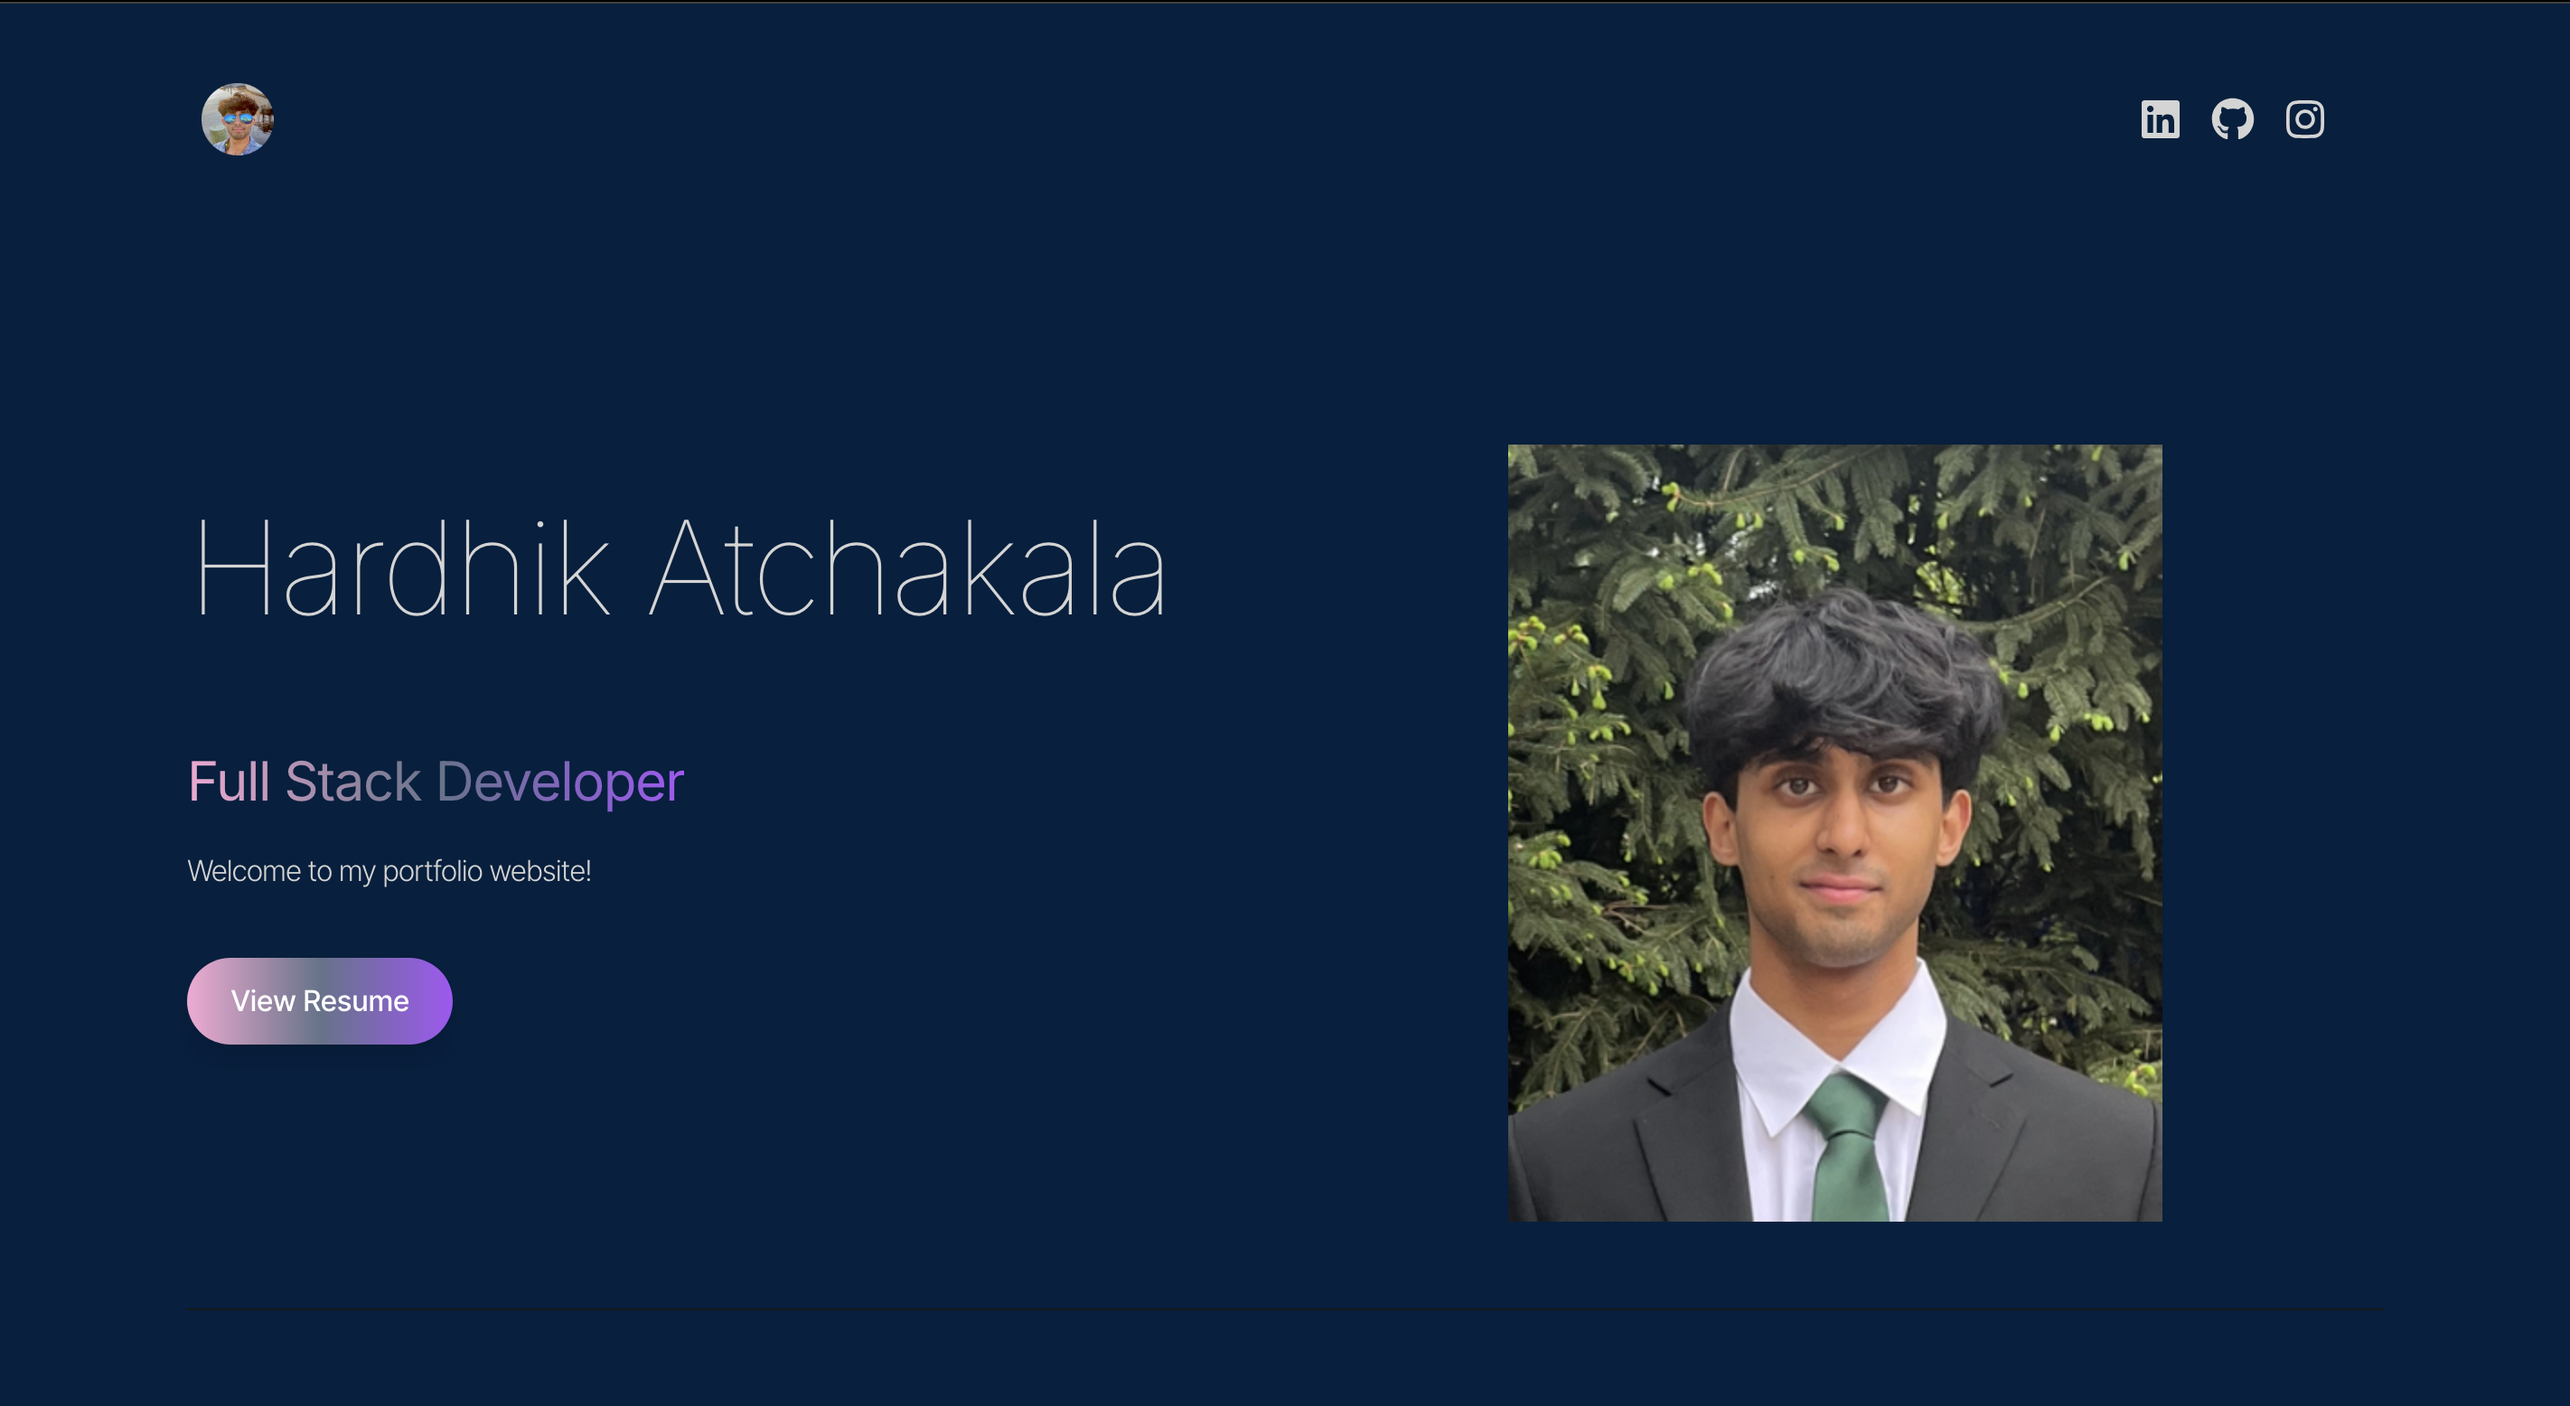
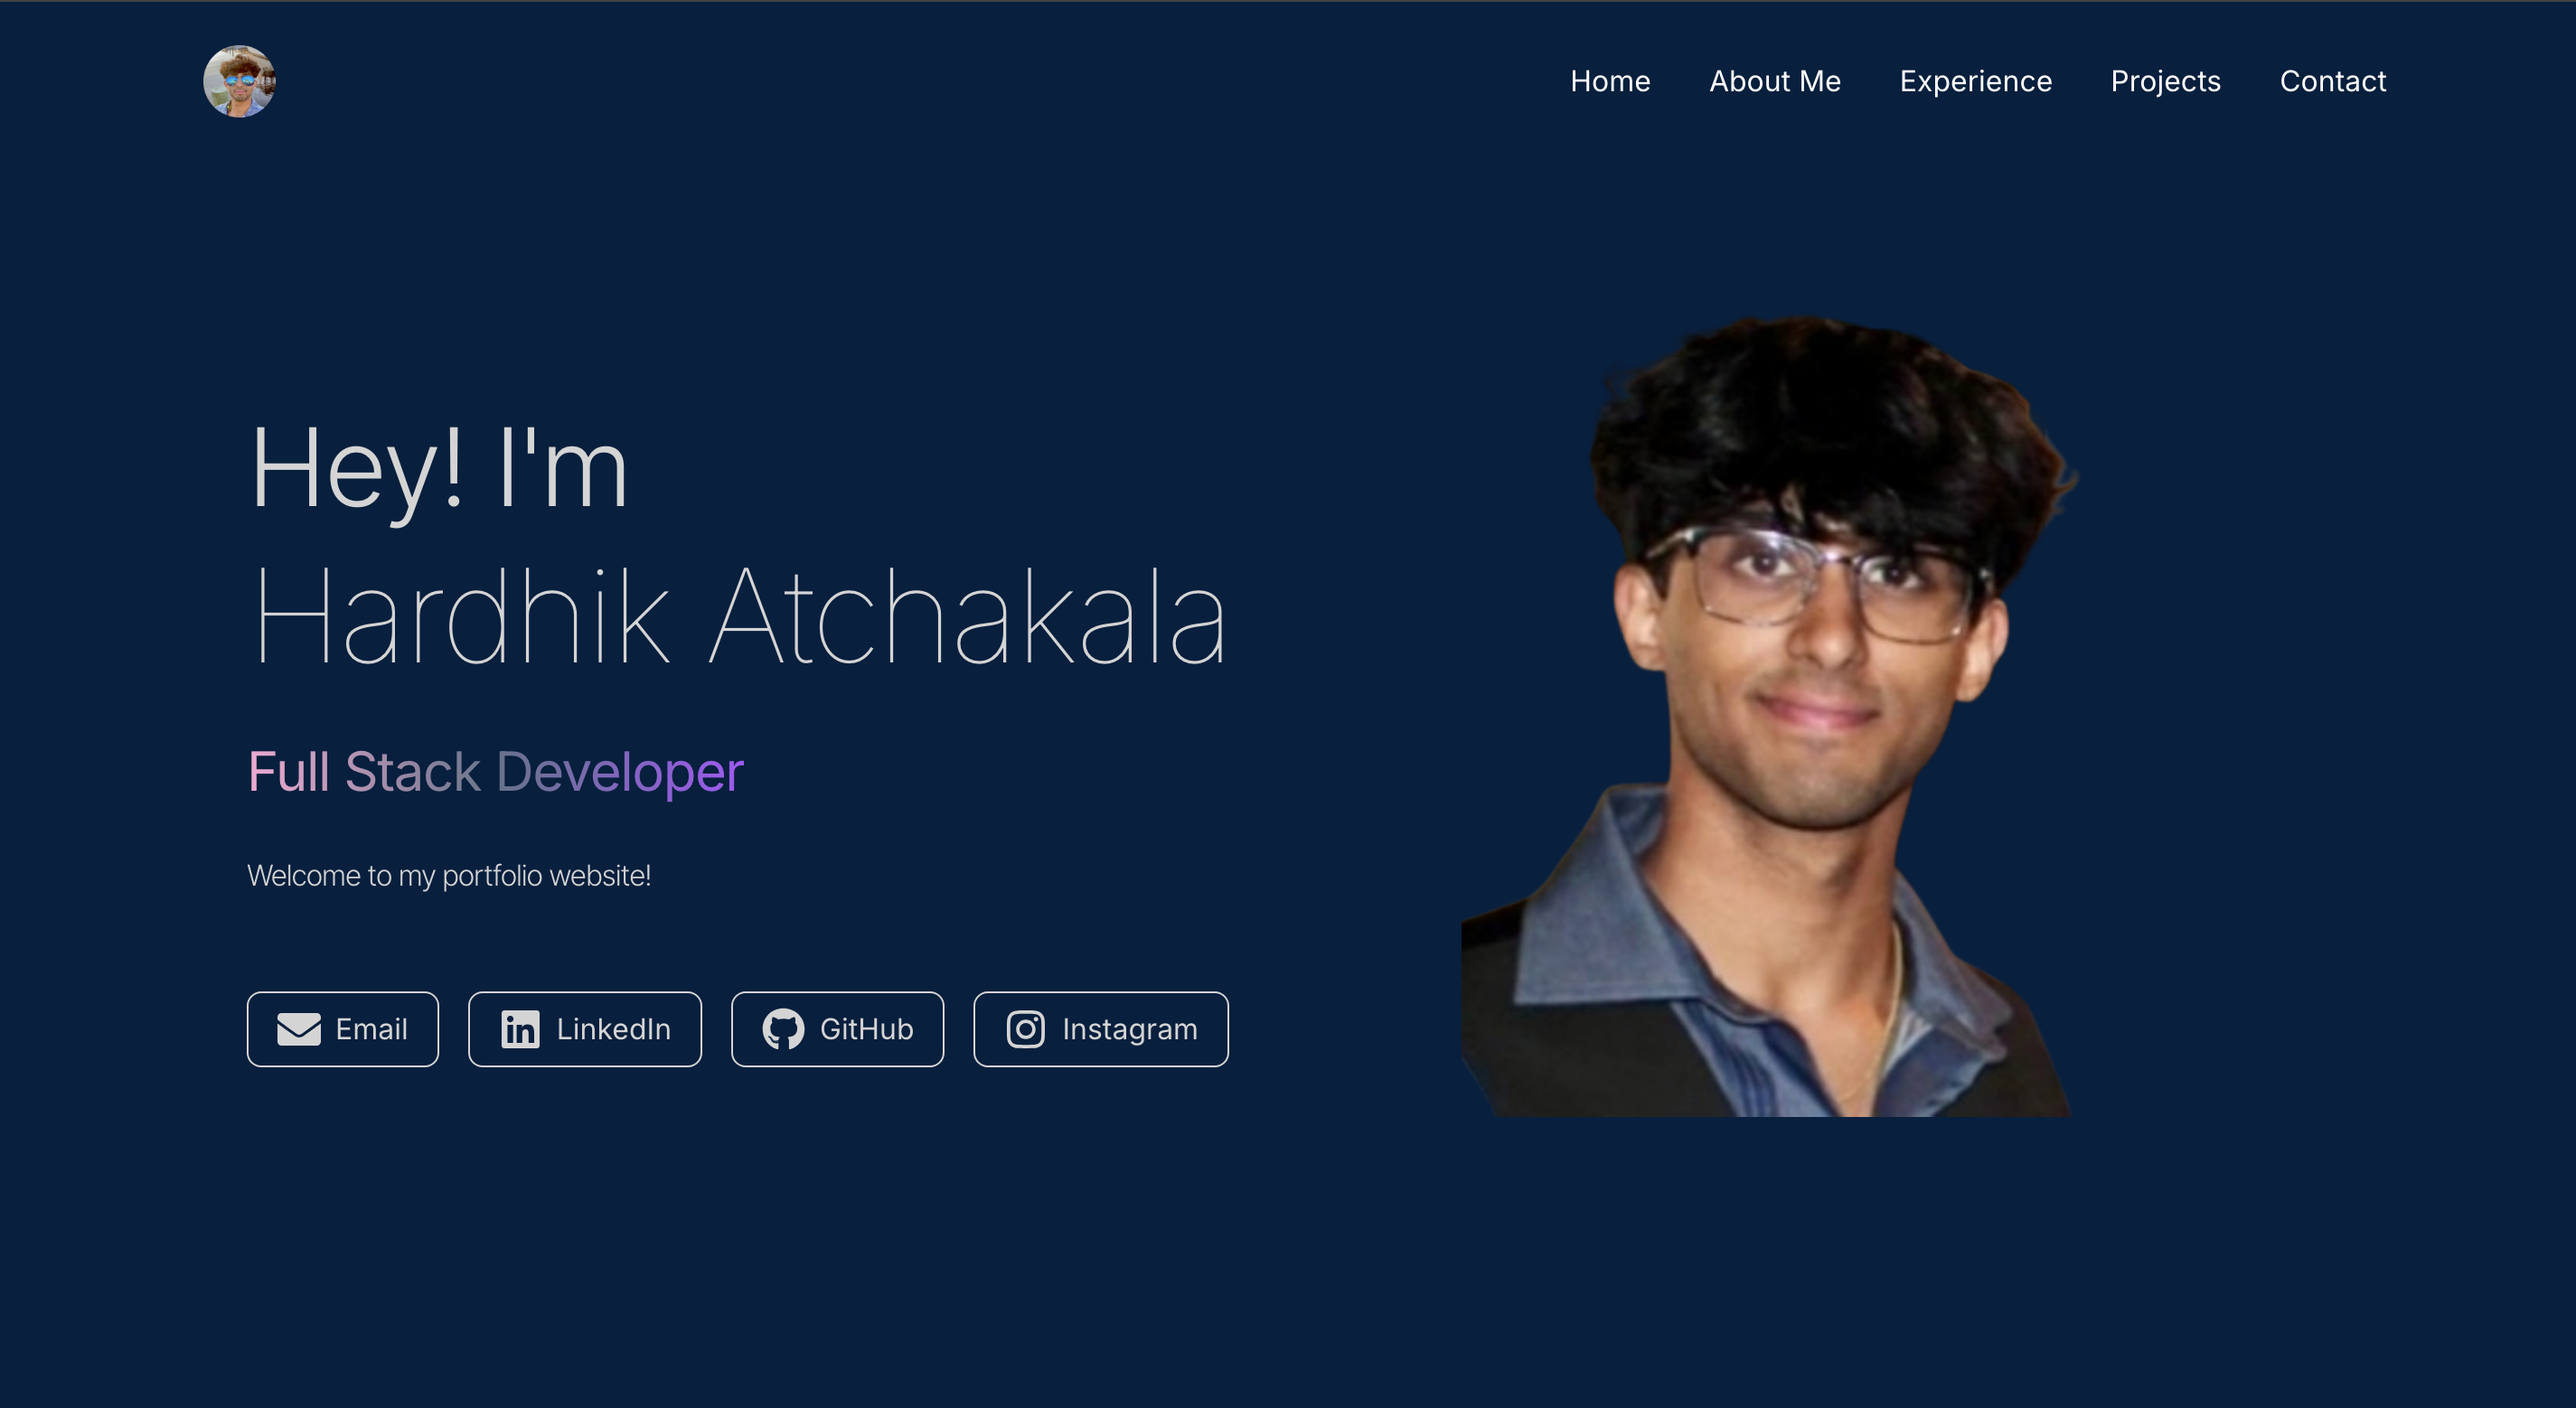
changed main website picture

diff --git a/src/components/Navbar.jsx b/src/components/Navbar.jsx
@@ -23,6 +23,9 @@ const Navbar = () => {
     };
   }, []);
 
+  const navLinkClass =
+    "relative text-base text-white transition-all duration-200 cursor-pointer hover:text-[#2965F1] after:content-[''] after:absolute after:left-0 after:-bottom-1 after:h-[2px] after:w-0 hover:after:w-full after:bg-[#2965F1] after:transition-all after:duration-200";
+
   return (
     <nav className="mb-20 flex items-center justify-between py-6">
       <div className="flex flex-shrink-0 items-center">
@@ -37,49 +40,24 @@ const Navbar = () => {
 
       {/* Desktop Menu */}
       <div className="hidden md:flex space-x-8">
-        <Link
-          to="hero"
-          smooth={true}
-          duration={500}
-          className="text-base text-white transition-colors duration-200 hover:text-[#2965F1]"
-        >
+        <Link to="hero" smooth={true} duration={500} className={navLinkClass}>
           Home
         </Link>
-        <Link
-          to="about"
-          smooth={true}
-          duration={500}
-          className="text-base text-white transition-colors duration-200 hover:text-[#2965F1]"
-        >
+        <Link to="about" smooth={true} duration={500} className={navLinkClass}>
           About Me
         </Link>
-        <Link
-          to="experience"
-          smooth={true}
-          duration={500}
-          className="text-base text-white transition-colors duration-200 hover:text-[#2965F1]"
-        >
+        <Link to="experience" smooth={true} duration={500} className={navLinkClass}>
           Experience
         </Link>
-        <Link
-          to="projects"
-          smooth={true}
-          duration={500}
-          className="text-base text-white transition-colors duration-200 hover:text-[#2965F1]"
-        >
+        <Link to="projects" smooth={true} duration={500} className={navLinkClass}>
           Projects
         </Link>
-        <Link
-          to="contact"
-          smooth={true}
-          duration={500}
-          className="text-base text-white transition-colors duration-200 hover:text-[#2965F1]"
-        >
+        <Link to="contact" smooth={true} duration={500} className={navLinkClass}>
           Contact
         </Link>
       </div>
 
-      {/* Mobile Menu */}
+      {/* Mobile Menu Toggle */}
       <div className="md:hidden">
         <button onClick={toggleMenu} className="text-white">
           {isMenuOpen ? <FaTimes size={30} /> : <FaBars size={30} />}
@@ -92,51 +70,18 @@ const Navbar = () => {
           ref={menuRef}
           className="absolute top-16 right-4 bg-transparent text-white w-40 px-4 py-4 space-y-4 shadow-lg rounded-lg"
         >
-          <Link
-            to="hero"
-            smooth={true}
-            duration={500}
-            className="block text-base transition-colors duration-200 hover:bg-[#2965F1] hover:text-white p-2 rounded text-right"
-            onClick={toggleMenu}
-          >
-            Home
-          </Link>
-          <Link
-            to="about"
-            smooth={true}
-            duration={500}
-            className="block text-base transition-colors duration-200 hover:bg-[#2965F1] hover:text-white p-2 rounded text-right"
-            onClick={toggleMenu}
-          >
-            About Me
-          </Link>
-          <Link
-            to="experience"
-            smooth={true}
-            duration={500}
-            className="block text-base transition-colors duration-200 hover:bg-[#2965F1] hover:text-white p-2 rounded text-right"
-            onClick={toggleMenu}
-          >
-            Experience
-          </Link>
-          <Link
-            to="projects"
-            smooth={true}
-            duration={500}
-            className="block text-base transition-colors duration-200 hover:bg-[#2965F1] hover:text-white p-2 rounded text-right"
-            onClick={toggleMenu}
-          >
-            Projects
-          </Link>
-          <Link
-            to="contact"
-            smooth={true}
-            duration={500}
-            className="block text-base transition-colors duration-200 hover:bg-[#2965F1] hover:text-white p-2 rounded text-right"
-            onClick={toggleMenu}
-          >
-            Contact
-          </Link>
+          {["hero", "about", "experience", "projects", "contact"].map((section) => (
+            <Link
+              key={section}
+              to={section}
+              smooth={true}
+              duration={500}
+              className="block text-base transition-colors duration-200 hover:bg-[#2965F1] hover:text-white p-2 rounded text-right cursor-pointer"
+              onClick={toggleMenu}
+            >
+              {section.charAt(0).toUpperCase() + section.slice(1)}
+            </Link>
+          ))}
         </div>
       )}
     </nav>

diff --git a/src/components/Hero.jsx b/src/components/Hero.jsx
@@ -33,7 +33,16 @@ const Hero = () => {
               variants={container(0)}
               initial="hidden"
               animate="visible"
-              className="pb-8 text-5xl font-thin tracking-tight sm:text-6xl lg:text-7xl text-center lg:text-left"
+              className="pb-4 text-4xl sm:text-5xl lg:text-6xl font-light tracking-tight text-center lg:text-left"
+            >
+              Hey! I'm
+            </motion.div>
+
+            <motion.div
+              variants={container(0.5)}
+              initial="hidden"
+              animate="visible"
+              className="pb-8 text-5xl sm:text-6xl lg:text-7xl font-thin tracking-tight text-center lg:text-left"
             >
               {!isTyped ? (
                 <Typewriter
@@ -45,6 +54,7 @@ const Hero = () => {
                   }}
                   onInit={(typewriter) => {
                     typewriter
+                      .pauseFor(1500)
                       .typeString("Hardhik Atchakala")
                       .callFunction(() => setIsTyped(true))
                       .start();
@@ -56,7 +66,7 @@ const Hero = () => {
             </motion.div>
 
             <motion.span
-              variants={container(0.5)}
+              variants={container(1)}
               initial="hidden"
               animate="visible"
               className="bg-gradient-to-r from-pink-300 via-slate-500 to-purple-500 bg-clip-text text-2xl sm:text-3xl tracking-tight text-transparent"
@@ -65,7 +75,7 @@ const Hero = () => {
             </motion.span>
 
             <motion.p
-              variants={container(1)}
+              variants={container(1.3)}
               initial="hidden"
               animate="visible"
               className="my-4 max-w-xl py-3 font-light tracking-tighter text-center lg:text-left"
@@ -75,7 +85,7 @@ const Hero = () => {
 
             {/* Social Links */}
             <motion.div
-              variants={container(1.3)}
+              variants={container(1.6)}
               initial="hidden"
               animate="visible"
               className="mt-6 flex flex-wrap justify-center lg:justify-start gap-3 sm:gap-4"
@@ -143,8 +153,4 @@ const Hero = () => {
 };
 
 export default Hero;
-
-
-
-
 

diff --git a/src/App.jsx b/src/App.jsx
@@ -9,7 +9,7 @@ import { Element } from "react-scroll";
 
 const App = () => {
   return (
-    <div className="overflow-x-hidden text-neutral-300 antialiased selection:bg-cyan-300 selection:text-cyan-900">
+    <div className="overflow-x-hidden text-neutral-300 antialiased selection:bg-[#2965F1] selection:text-white">
       <div className="fixed top-0 -z-10 h-full w-full">
         <div className="absolute top-0 z-[-2] h-screen w-screen bg-navy"></div>
       </div>

diff --git a/src/constants/index.js b/src/constants/index.js
@@ -1,6 +1,6 @@
 import project1 from "../assets/projects/stanleyCupAgent.jpg";
 import project2 from "../assets/projects/yapMap.jpg";
-import project3 from "../assets/projects/project-3.jpg";
+import project3 from "../assets/projects/upTrend.jpg";
 import project4 from "../assets/projects/delayDetective.jpg";
 import project5 from "../assets/projects/portfolioWebsite.jpg";
 
